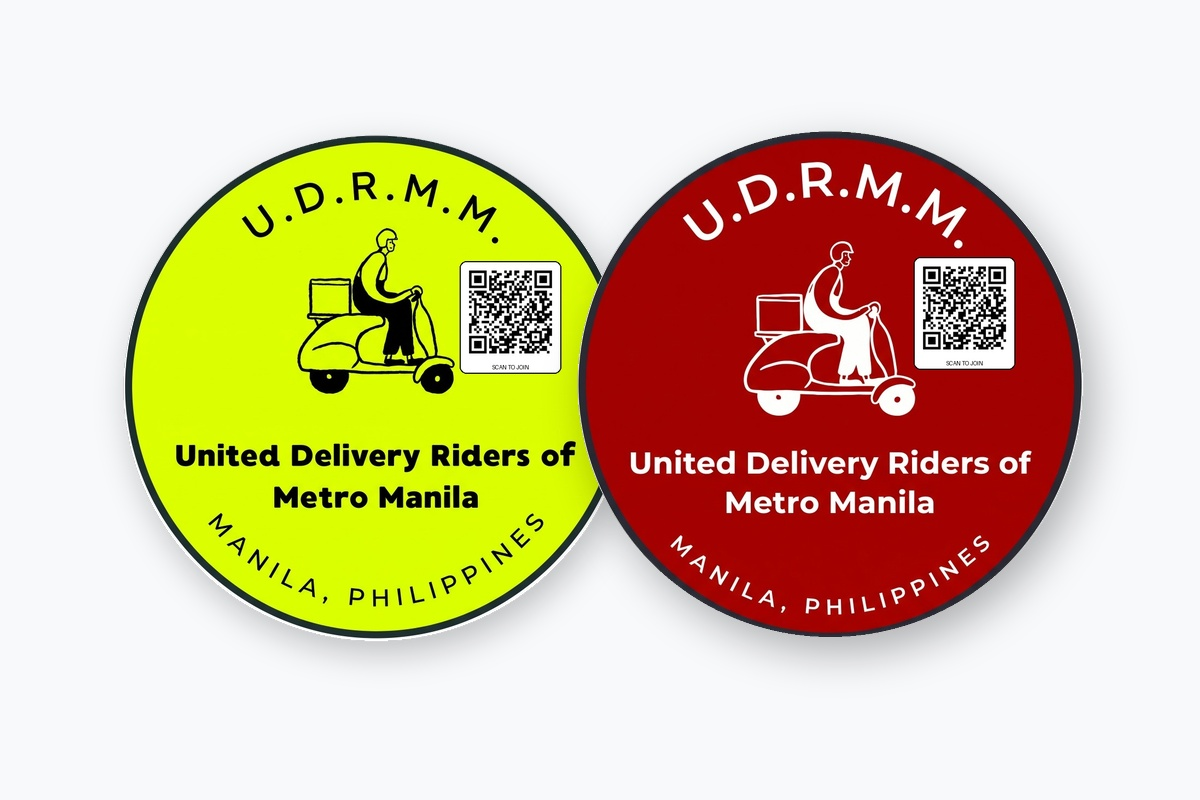
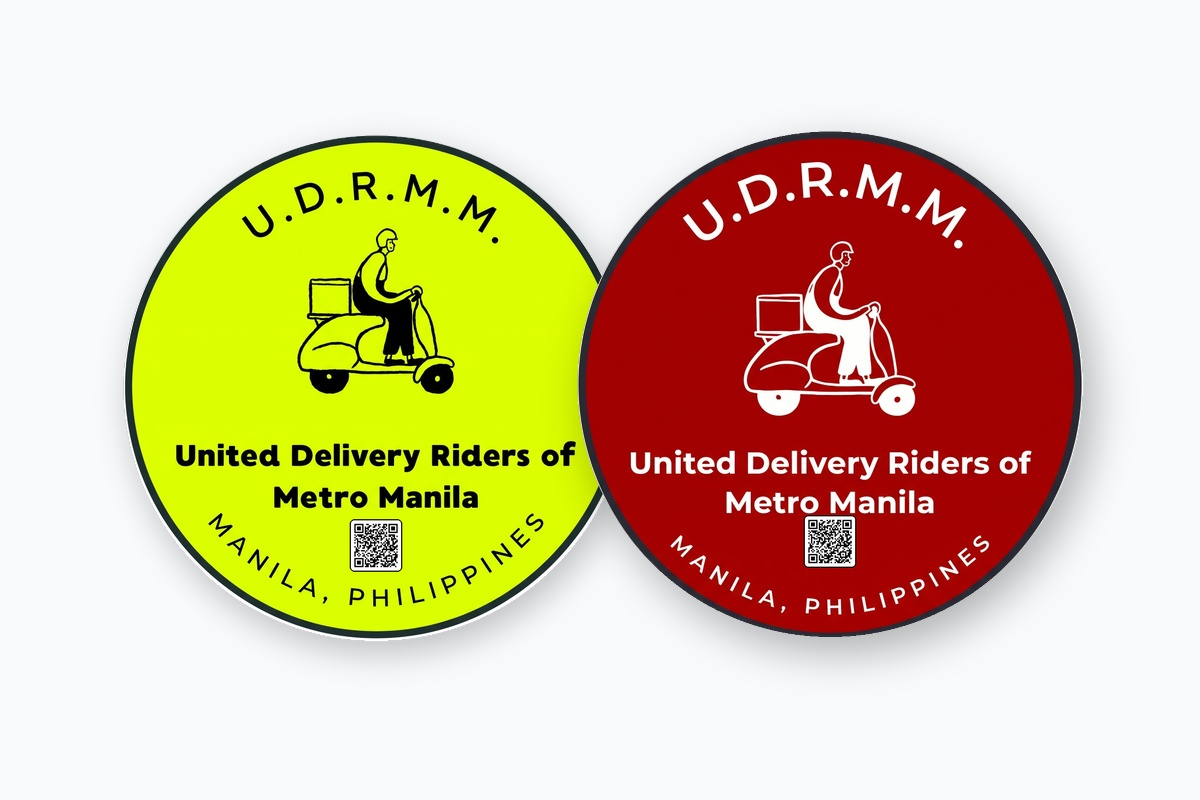
Reposition QR code on stickers: compact size placed below union name and above Manila Philippines

diff --git a/app.js b/app.js
@@ -1206,14 +1206,14 @@ function setupProductVariants() {
       // Auto-preview matching sticker image
       if (stickerImg && stickerSwitcher) {
         if (selectedStickerVariant.includes('Yellow')) {
-          stickerImg.src = 'assets/sticker-yellow-qr.jpg';
-          stickerSwitcher.querySelectorAll('.view-btn').forEach(b => b.classList.toggle('active', b.getAttribute('data-img') === 'assets/sticker-yellow-qr.jpg'));
+          stickerImg.src = 'assets/sticker-yellow-qr.jpg?v=3';
+          stickerSwitcher.querySelectorAll('.view-btn').forEach(b => b.classList.toggle('active', (b.getAttribute('data-img') || '').includes('sticker-yellow-qr')));
         } else if (selectedStickerVariant.includes('Red')) {
-          stickerImg.src = 'assets/sticker-red-qr.jpg';
-          stickerSwitcher.querySelectorAll('.view-btn').forEach(b => b.classList.toggle('active', b.getAttribute('data-img') === 'assets/sticker-red-qr.jpg'));
+          stickerImg.src = 'assets/sticker-red-qr.jpg?v=3';
+          stickerSwitcher.querySelectorAll('.view-btn').forEach(b => b.classList.toggle('active', (b.getAttribute('data-img') || '').includes('sticker-red-qr')));
         } else {
-          stickerImg.src = 'assets/product-stickers.jpg';
-          stickerSwitcher.querySelectorAll('.view-btn').forEach(b => b.classList.toggle('active', b.getAttribute('data-img') === 'assets/product-stickers.jpg'));
+          stickerImg.src = 'assets/product-stickers.jpg?v=3';
+          stickerSwitcher.querySelectorAll('.view-btn').forEach(b => b.classList.toggle('active', (b.getAttribute('data-img') || '').includes('product-stickers')));
         }
       }
     });
@@ -1259,7 +1259,7 @@ const productsCatalog = {
     titleEn: 'Official Weatherproof Vinyl Sticker Pack (Yellow & Red)',
     titleFil: 'Opisyal na Weatherproof Vinyl Sticker Pack (Dilaw at Pula)',
     price: 120,
-    img: 'assets/product-stickers.jpg',
+    img: 'assets/product-stickers.jpg?v=3',
     getVariant: () => selectedStickerVariant
   },
   'cap': {

diff --git a/index.html b/index.html
@@ -552,12 +552,12 @@
           <!-- 2. Official Weatherproof Vinyl Sticker Pack -->
           <div class="product-card">
             <div class="product-thumb-wrap">
-              <img id="stickers-main-img" src="assets/product-stickers.jpg" alt="Official UDRMM Vinyl Sticker Pack" class="product-thumb" width="400" height="240" loading="lazy" decoding="async">
+              <img id="stickers-main-img" src="assets/product-stickers.jpg?v=3" alt="Official UDRMM Vinyl Sticker Pack" class="product-thumb" width="400" height="240" loading="lazy" decoding="async">
               <span class="product-tag">Weatherproof • Scannable QR</span>
               <div class="product-view-switcher" data-target="stickers-main-img">
-                <button type="button" class="view-btn active" data-img="assets/product-stickers.jpg" title="Both Stickers">Both</button>
-                <button type="button" class="view-btn" data-img="assets/sticker-yellow-qr.jpg" title="Neon Yellow Sticker with QR">Yellow</button>
-                <button type="button" class="view-btn" data-img="assets/sticker-red-qr.jpg" title="Crimson Red Sticker with QR">Red</button>
+                <button type="button" class="view-btn active" data-img="assets/product-stickers.jpg?v=3" title="Both Stickers">Both</button>
+                <button type="button" class="view-btn" data-img="assets/sticker-yellow-qr.jpg?v=3" title="Neon Yellow Sticker with QR">Yellow</button>
+                <button type="button" class="view-btn" data-img="assets/sticker-red-qr.jpg?v=3" title="Crimson Red Sticker with QR">Red</button>
               </div>
             </div>
             <div class="product-body">
